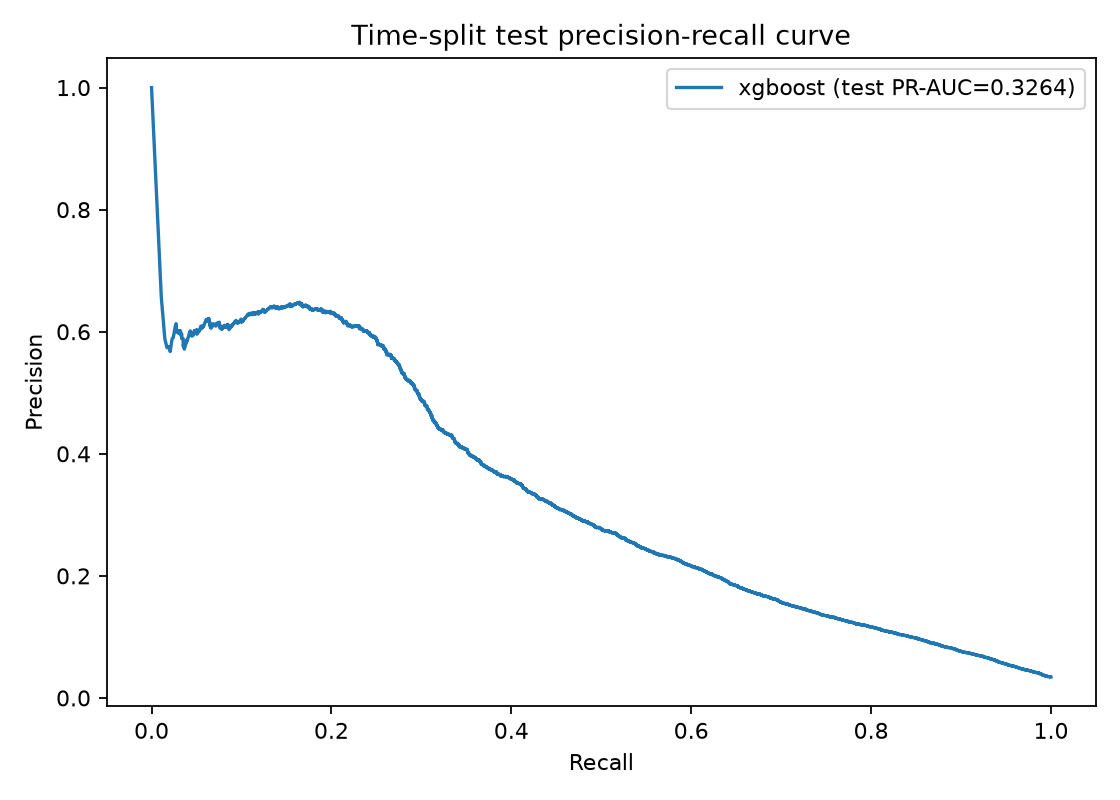
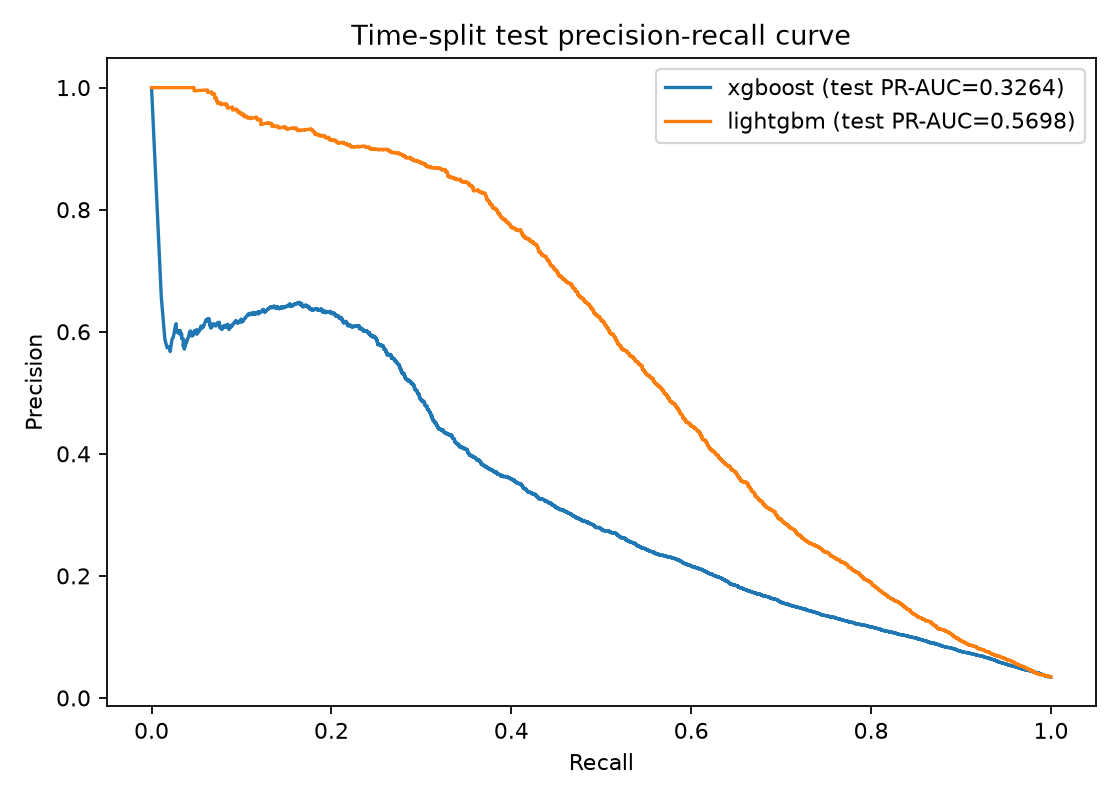
docs(03b): compare updated temporal model results

diff --git a/COMPARISON.md b/COMPARISON.md
@@ -1,13 +1,17 @@
 # Week 3 vs. temporal split
 
-Values below are copied from `notebooks/ablation_report/ablation_summary.csv` and `notebooks/tabular_timesplit_report/timesplit_summary.csv`.
+Metrics below are from `notebooks/ablation_report/ablation_summary.csv` and `notebooks/tabular_timesplit_report/timesplit_summary.csv`.
 
 | Evaluation | Model | PR-AUC | ROC-AUC | F1 | Precision | Recall |
 |---|---|---:|---:|---:|---:|---:|
-| Week 3 shuffled 5-fold mean | XGBoost | Not reported in CSV | 0.9610 | 0.6090 | 0.4888 | 0.8079 |
+| Week 3 shuffled CV mean | XGBoost | Not reported in CSV | 0.9610 | 0.6090 | 0.4888 | 0.8079 |
 | 03b validation time split | XGBoost | 0.5951 | 0.9214 | 0.6104 | 0.7076 | 0.5366 |
 | 03b test time split | XGBoost | 0.3264 | 0.8699 | 0.3639 | 0.2964 | 0.4712 |
+| 03b validation time split | LightGBM | 0.7046 | 0.9367 | 0.6687 | 0.7972 | 0.5759 |
+| 03b test time split | LightGBM | 0.5698 | 0.9084 | 0.5520 | 0.6795 | 0.4648 |
 
-The Week 3 CSV does not include PR-AUC. Its shuffled cross-validation results and 03b's validation/test results use different evaluation protocols, so they are not directly comparable. The 03b model was selected by validation PR-AUC; test metrics were calculated once for the selected XGBoost model.
+LightGBM is now the validation PR-AUC winner; the winner changed from XGBoost. Thresholds and early stopping use validation data. Both models were evaluated once on the fixed test period; test scores did not select the winner.
 
-PR curve: [tabular_timesplit_pr_curve.png](tabular_timesplit_pr_curve.png). The curve was generated from the 03b test predictions.
+The Week 3 CSV does not include PR-AUC, and its shuffled CV results are not directly comparable to 03b's later-period test results. The temporal test gap is not explained by fraud prevalence alone: `period_summary.csv` reports validation and test fraud rates of 0.0349003 and 0.0344092. `feature_drift.csv` shows changes in numeric feature distributions; the largest absolute standardized mean difference is 0.5241 for `id_13`, with several `V` features also near that level. This is consistent with temporal covariate drift contributing to the PR-AUC drop, though the diagnostics do not establish which feature changes caused it.
+
+PR curves for both models: [tabular_timesplit_pr_curve.png](tabular_timesplit_pr_curve.png). Per-model scores and per-period/per-feature diagnostics are in the cited CSVs.

diff --git a/MORNING.md b/MORNING.md
@@ -1,11 +1,12 @@
 # Morning status
 
-- Reviewed `03b`, `common_eval.py`, and tests; fixed validation-only selection, model memory retention, and CSV dtype loading in new code. Each fix is locally committed.
-- Smoke command: `& .\.venv\Scripts\python.exe scripts\03b_tabular_timesplit.py --smoke-test --models xgboost`; passed (smoke-only, not a result).
-- Real command: `& .\.venv\Scripts\python.exe scripts\03b_tabular_timesplit.py --models xgboost,lightgbm`; completed. XGBoost selected on validation PR-AUC 0.5951; test PR-AUC 0.3264. Full log: `notebooks/tabular_timesplit_report/run.log`.
-- Wrote `COMPARISON.md` and `tabular_timesplit_pr_curve.png`; comparison values come from the Week 3 and 03b CSVs. Week 3 CSV has no PR-AUC. Test evaluated once.
-- RAM was 0.71 GiB available before the run, fell as low as 0.02 GiB during it, then recovered; C: had 514.40 GiB free before the run. No OOM occurred. Nonfatal LightGBM deprecation, matplotlib cache permission, and pandas fragmentation warnings appeared.
-- No files deleted, no `data/` or scripts 01–07 edited, no packages installed, and nothing pushed. No approval items waiting. Five local commits; branch is five commits ahead of `origin/master`.
+- The six previous local commits were pushed to `origin/master` before this follow-up.
+- Corrected LightGBM to early-stop on average precision; updated CSV numeric loading, retained only a small demo sample, released split frames, and added per-model exception handling, metrics, and model artifacts. Each code fix has its own commit.
+- Revised smoke command passed: `& .\.venv\Scripts\python.exe scripts\03b_tabular_timesplit.py --smoke-test --models xgboost,lightgbm` (smoke-only).
+- Real run completed with `& .\.venv\Scripts\python.exe -u scripts\03b_tabular_timesplit.py --models xgboost,lightgbm`; see `notebooks/tabular_timesplit_report/run2.log`.
+- Validation/test PR-AUC: XGBoost 0.5951/0.3264; LightGBM 0.7046/0.5698. LightGBM is the new validation winner. `COMPARISON.md` summarizes the results and drift evidence.
+- Validation/test fraud rates were similar, while the numeric feature drift CSV shows distribution changes. RAM remained tight during training; the run completed. Nonfatal LightGBM deprecation and matplotlib cache permission warnings appeared.
+- No data or scripts 01–07 were edited; no packages installed; no files deleted.
 
 Next command (Follow-up 2 graph run):
 
